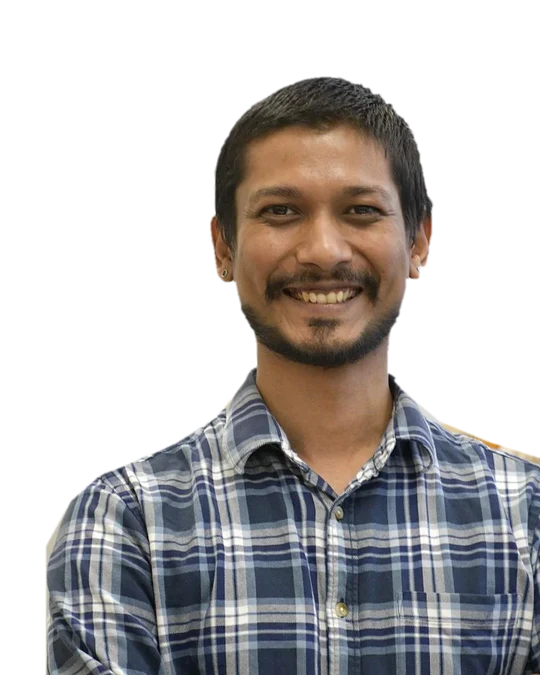
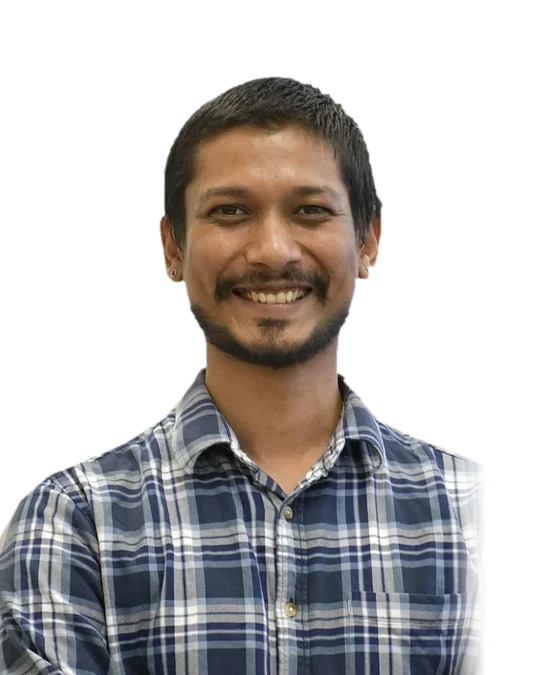
Centre About portrait, remove shoulder leftover

diff --git a/index.html b/index.html
@@ -28,7 +28,7 @@
     <meta name="twitter:description" content="Accelerator physicist working on ion & electron sources, beam diagnostics and digital twins. Research, lab instruments, publications, lectures and simulations.">
     <meta name="twitter:image" content="https://bharat-singh-rawat.github.io/CV/v2/img/og-card.jpg?v=bsr1">
     <!-- ALL CV CONTENT COMES FROM /Dossier/profile.js — edit that file, not this page -->
-    <script src="/Dossier/profile.js?v=20261123c"></script>
+    <script src="/Dossier/profile.js?v=20261123e"></script>
     <script>
         /* theme: follow the system unless the visitor picked one (footer / search); decided before the page paints */
         (function () {
@@ -39,7 +39,7 @@
             window.cvInkRGB = dark ? '245, 245, 247' : '29, 29, 31';   /* line colour for the canvas scenes */
         })();
     </script>
-    <link rel="stylesheet" href="/CV/v2/v2.css?v=20261123c">
+    <link rel="stylesheet" href="/CV/v2/v2.css?v=20261123e">
 </head>
 <body>
     <!-- BSR intro: once per visit, skipped for reduced motion -->
@@ -252,19 +252,19 @@
         </div>
     </footer>
 
-    <script src="/CV/v2/i18n.js?v=20261123c"></script>
-    <script src="/CV/v2/v2.js?v=20261123c"></script>
-    <script src="/CV/v2/globe-dots.js?v=20261123c"></script>
-    <script src="/CV/v2/globe.js?v=20261123c"></script>
-    <script src="/CV/v2/music.js?v=20261123c"></script>
-    <script src="/CV/v2/scenes.js?v=20261123c"></script>
-    <script src="/CV/v2/sfx.js?v=20261123c"></script>
-    <script src="/CV/v2/extras.js?v=20261123c"></script>
-    <script src="/CV/v2/clips.js?v=20261123c"></script>
-    <script src="/CV/v2/retro.js?v=20261123c"></script>
-    <script src="/CV/v2/polish.js?v=20261123c"></script>
-    <script src="/CV/v2/apple.js?v=20261123c"></script>
-    <script src="/CV/v2/flow.js?v=20261123c"></script>
-    <script src="/CV/v2/portrait-fx.js?v=20261123c"></script>
+    <script src="/CV/v2/i18n.js?v=20261123e"></script>
+    <script src="/CV/v2/v2.js?v=20261123e"></script>
+    <script src="/CV/v2/globe-dots.js?v=20261123e"></script>
+    <script src="/CV/v2/globe.js?v=20261123e"></script>
+    <script src="/CV/v2/music.js?v=20261123e"></script>
+    <script src="/CV/v2/scenes.js?v=20261123e"></script>
+    <script src="/CV/v2/sfx.js?v=20261123e"></script>
+    <script src="/CV/v2/extras.js?v=20261123e"></script>
+    <script src="/CV/v2/clips.js?v=20261123e"></script>
+    <script src="/CV/v2/retro.js?v=20261123e"></script>
+    <script src="/CV/v2/polish.js?v=20261123e"></script>
+    <script src="/CV/v2/apple.js?v=20261123e"></script>
+    <script src="/CV/v2/flow.js?v=20261123e"></script>
+    <script src="/CV/v2/portrait-fx.js?v=20261123e"></script>
 </body>
 </html>
